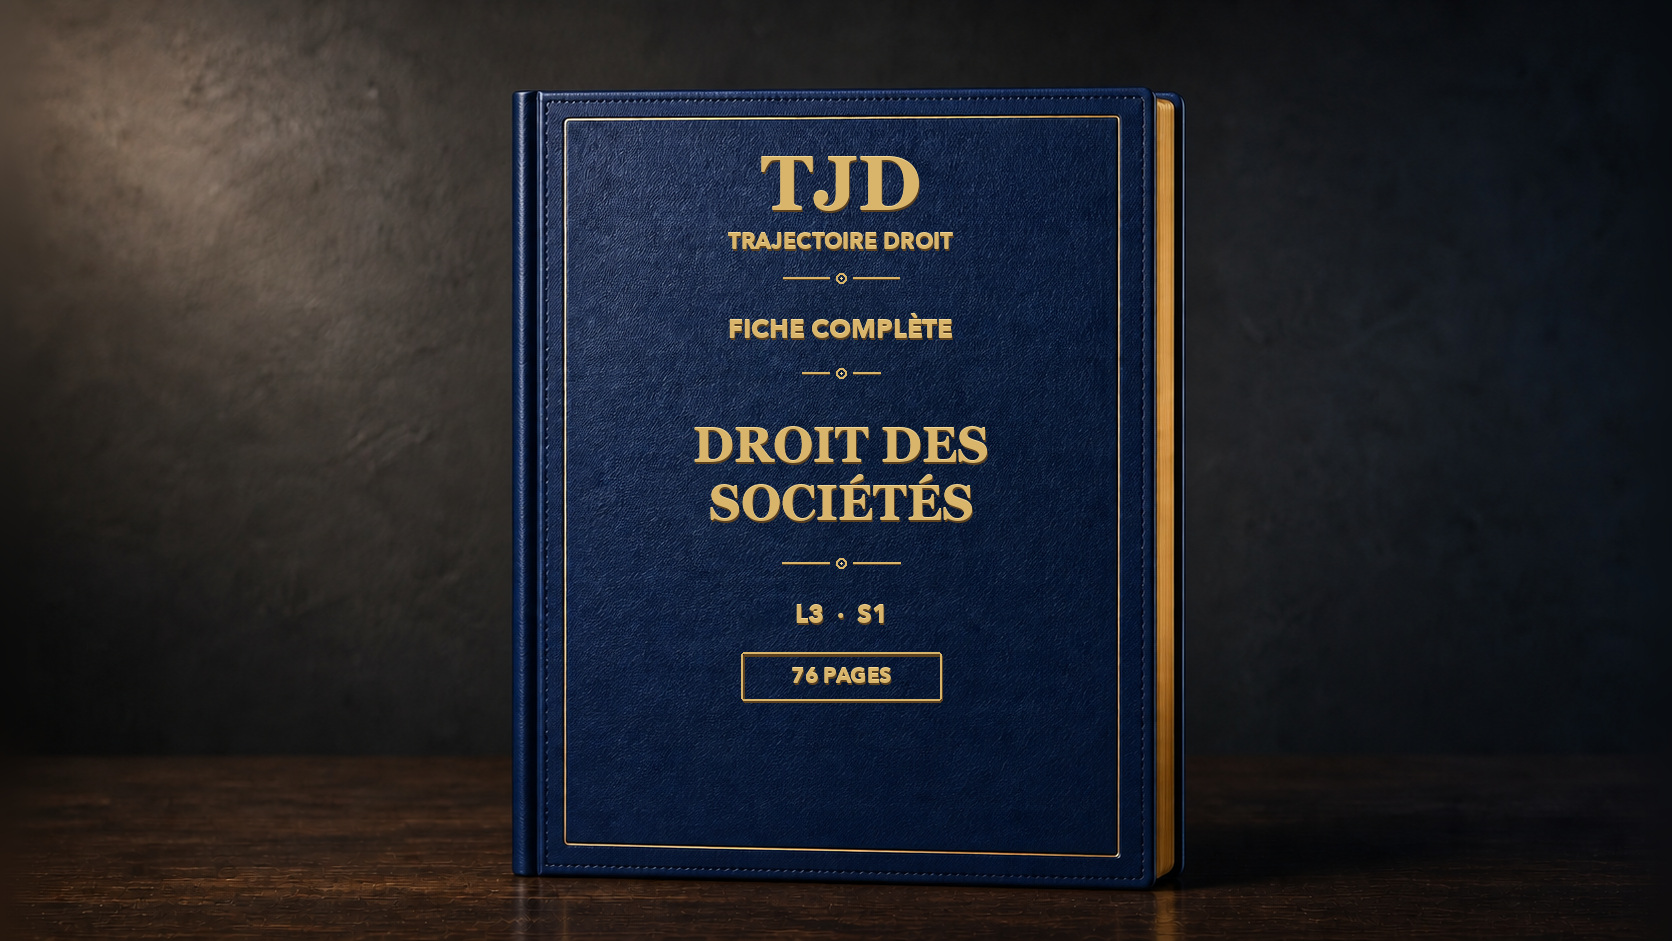
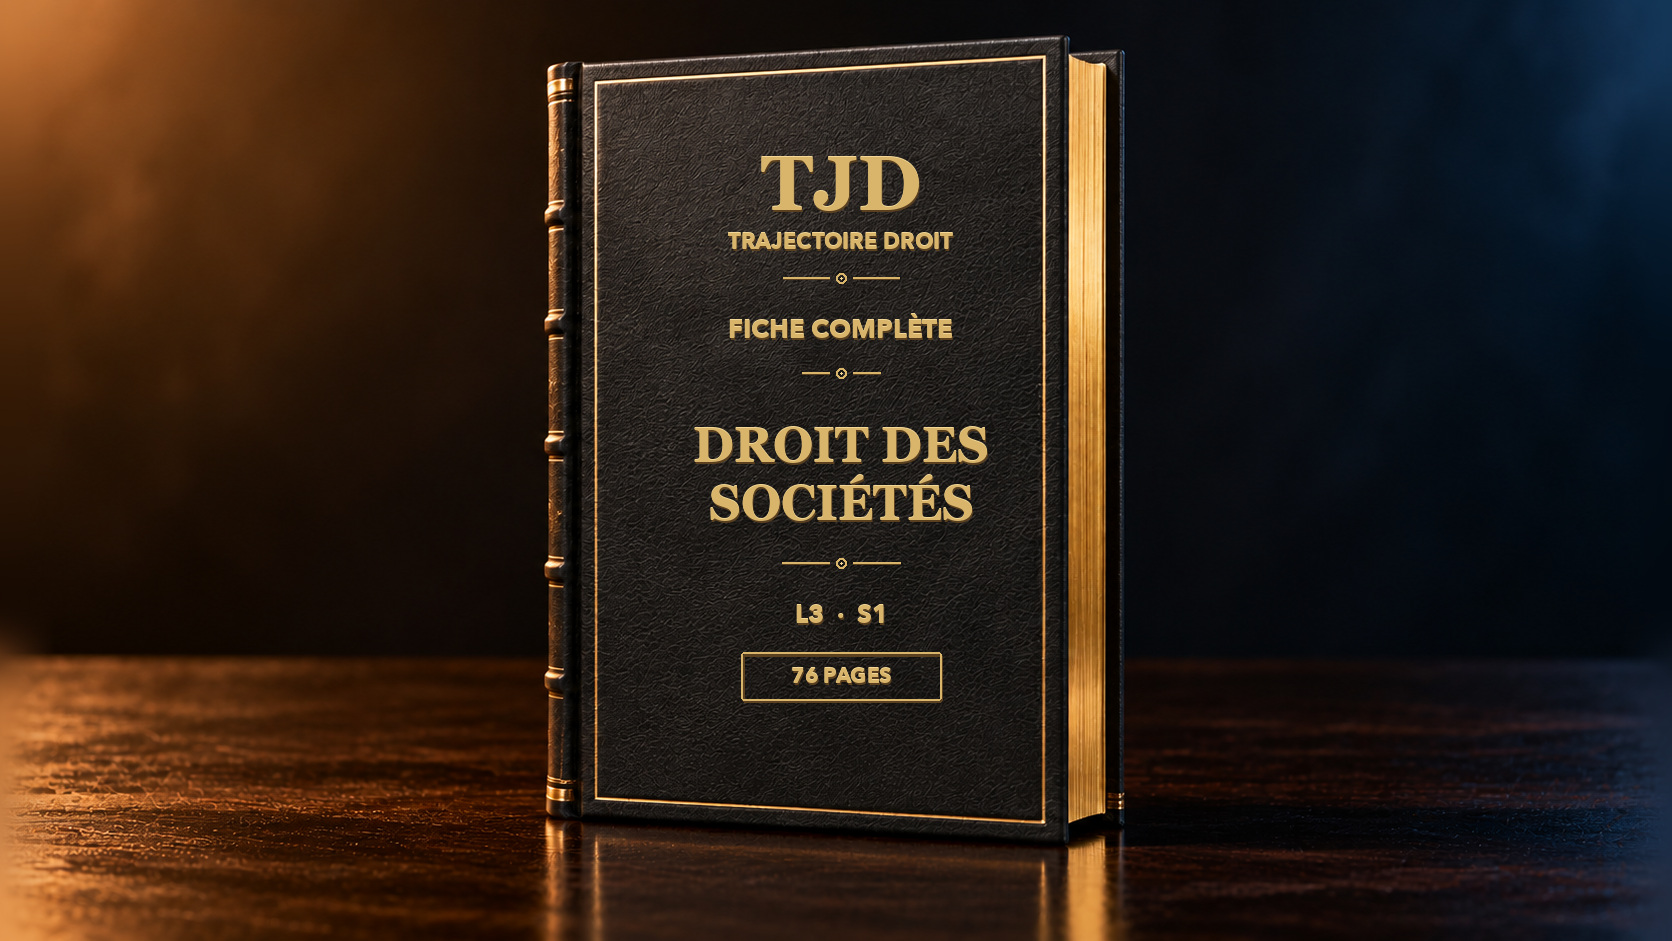
feat(droit-des-societes-l3): couverture dediee generee via ChatGPT pour la matiere
Julien a demande une image generee sur ChatGPT dans le meme style que les
autres couvertures du site (photo IA de livre relie cuir sur fond editorial
sombre), au lieu de reutiliser une teinte partagee avec d'autres matieres.
Nouveau maitre photographique dedie a Droit des societes (cuir anthracite,
tranche doree), applique aux fiches completes S1 et S2. Cache-busting mis a
jour sur toutes les references.

diff --git a/droit-des-societes-l3.html b/droit-des-societes-l3.html
@@ -48,7 +48,7 @@
         "@type": "Product",
         "name": "Fiche complète de droit des sociétés L3",
         "description": "Fiche complète de droit des sociétés L3, 76 pages, constitution, fonctionnement, dirigeants, toutes les formes sociales étudiées.",
-        "image": "https://trajectoiredroit.com/assets/covers/fiche-societes-l3-s1.jpg?v=pages-20260902",
+        "image": "https://trajectoiredroit.com/assets/covers/fiche-societes-l3-s1.jpg?v=societes-20260905",
         "brand": { "@type": "Brand", "name": "TrajectoireDroit" },
         "offers": {
           "@type": "Offer",
@@ -373,7 +373,7 @@
         <p class="lead" style="max-width:620px; margin:14px auto 28px">Tout le cours, en clair et en couleur, du contrat de société aux formes particulières, avec les comparatifs et la méthode. Deux semestres, 215 pages au total. Accès à vie, mises à jour incluses.</p>
         <div class="grid-2" style="gap:20px; max-width:760px; margin:0 auto 24px">
           <div class="card card--product">
-            <div class="product__thumb has-cover"><span class="badge badge--format">Fiche complète</span><img src="assets/covers/fiche-societes-l3-s1.webp?v=pages-20260902" alt="Couverture de la fiche Droit des sociétés S1" loading="lazy" width="960" height="540" decoding="async"></div>
+            <div class="product__thumb has-cover"><span class="badge badge--format">Fiche complète</span><img src="assets/covers/fiche-societes-l3-s1.webp?v=societes-20260905" alt="Couverture de la fiche Droit des sociétés S1" loading="lazy" width="960" height="540" decoding="async"></div>
             <div class="product__body">
             <h3 style="margin-top:0">Droit des sociétés S1 · 76 p.</h3>
             <p style="color:var(--body); font-size:.95rem">Le contrat de société, la personnalité morale et la vie sociale, le droit commun à toutes les sociétés.</p>
@@ -388,7 +388,7 @@
           </div>
           </div>
           <div class="card card--product">
-            <div class="product__thumb has-cover"><span class="badge badge--format">Fiche complète</span><img src="assets/covers/fiche-societes-l3-s2.webp" alt="Couverture de la fiche Droit des sociétés S2" loading="lazy" width="960" height="540" decoding="async"></div>
+            <div class="product__thumb has-cover"><span class="badge badge--format">Fiche complète</span><img src="assets/covers/fiche-societes-l3-s2.webp?v=societes-20260905" alt="Couverture de la fiche Droit des sociétés S2" loading="lazy" width="960" height="540" decoding="async"></div>
             <div class="product__body">
             <h3 style="margin-top:0">Droit des sociétés S2 · 139 p.</h3>
             <p style="color:var(--body); font-size:.95rem">Toutes les formes particulières, SNC, société civile, SARL, SA, SAS, et les restructurations, le droit spécial des sociétés.</p>

diff --git a/formations.html b/formations.html
@@ -785,7 +785,7 @@
           </article>
 
           <article class="card card--product fade-in" data-niveau="L3" data-matiere="affaires">
-            <div class="product__thumb has-cover"><span class="badge badge--format">Fiche complète</span><span class="badge badge--popular">Populaire</span><img src="assets/covers/fiche-societes-l3-s1.webp?v=pages-20260902" alt="Droit des sociétés , fiche complète, couverture Trajectoire Droit" loading="lazy" width="960" height="540" decoding="async"></div>
+            <div class="product__thumb has-cover"><span class="badge badge--format">Fiche complète</span><span class="badge badge--popular">Populaire</span><img src="assets/covers/fiche-societes-l3-s1.webp?v=societes-20260905" alt="Droit des sociétés , fiche complète, couverture Trajectoire Droit" loading="lazy" width="960" height="540" decoding="async"></div>
             <div class="product__body">
               <h3 class="product__title">Droit des sociétés S1</h3>
               <div class="product__meta"><span>L3</span><span>·</span><span>Semestre 1</span><span>·</span><span>PDF · 76 p.</span></div>
@@ -797,7 +797,7 @@
           </article>
 
           <article class="card card--product fade-in" data-niveau="L3" data-matiere="affaires">
-            <div class="product__thumb has-cover"><span class="badge badge--format">Fiche complète</span><img src="assets/covers/fiche-societes-l3-s2.webp" alt="Droit des sociétés semestre 2, fiche complète, couverture Trajectoire Droit" loading="lazy" width="960" height="540" decoding="async"></div>
+            <div class="product__thumb has-cover"><span class="badge badge--format">Fiche complète</span><img src="assets/covers/fiche-societes-l3-s2.webp?v=societes-20260905" alt="Droit des sociétés semestre 2, fiche complète, couverture Trajectoire Droit" loading="lazy" width="960" height="540" decoding="async"></div>
             <div class="product__body">
               <h3 class="product__title">Droit des sociétés S2</h3>
               <div class="product__meta"><span>L3</span><span>·</span><span>Semestre 2</span><span>·</span><span>PDF · 139 p.</span></div>
